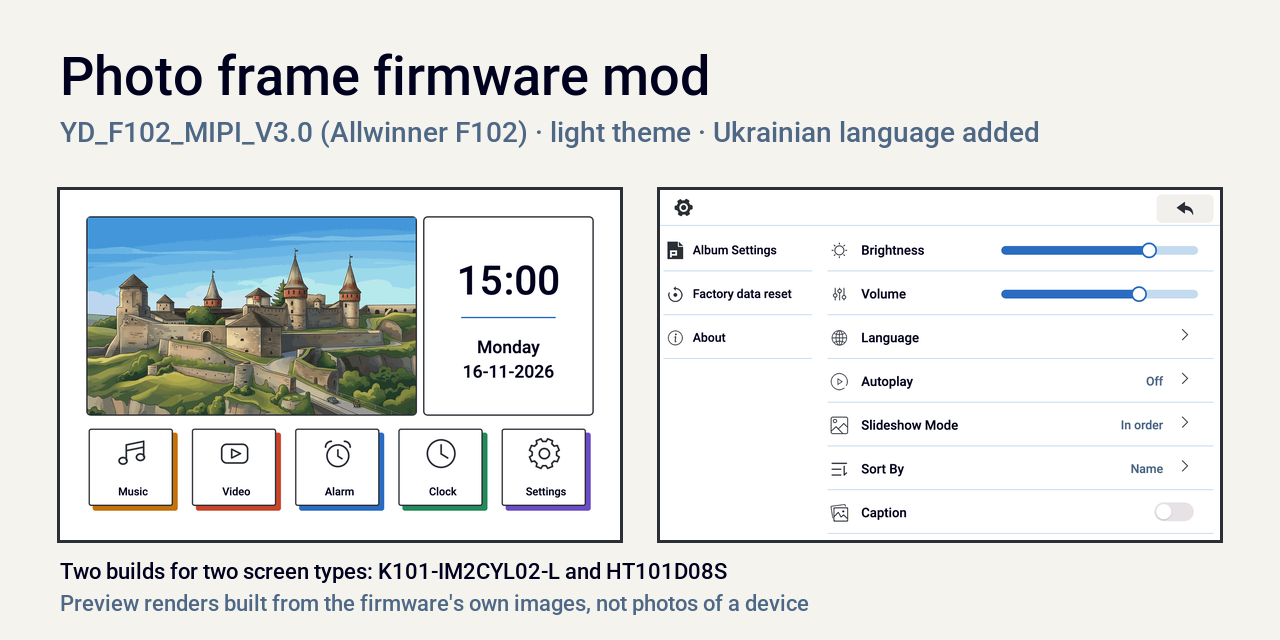
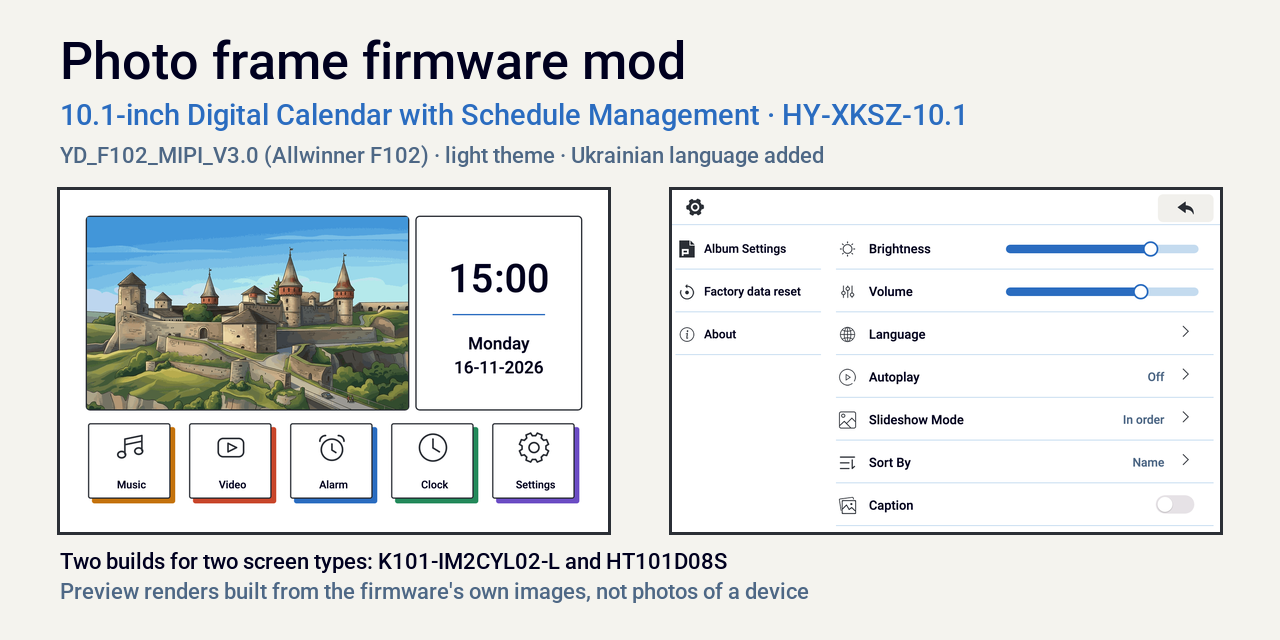
Add the device label (10.1-inch Digital Calendar, HY-XKSZ-10.1) for discoverability

diff --git a/README.md b/README.md
@@ -1,4 +1,6 @@
-# Photo frame firmware mod for YD_F102_MIPI_V3.0 (Allwinner F102)
+# Firmware mod for the 10.1-inch Digital Calendar with Schedule Management (HY-XKSZ-10.1)
+
+Photo frame / digital calendar on the **YD_F102_MIPI_V3.0** board (Allwinner F102, Melis RTOS). Case label: **10.1-inch Digital Calendar with Schedule Management, Model: HY-XKSZ-10.1**.
 
 Custom firmware images for photo frames built on the **YD_F102_MIPI_V3.0** board (Allwinner F102, Melis RTOS), plus the original seller firmware, everything needed to flash it (PhoenixSuit, the USB driver, a step-by-step guide) and the tools used to build the images.
 
@@ -11,6 +13,17 @@ The mod gives the frame a light interface, adds the **Ukrainian** language and f
 | ![Main menu, Ukrainian](docs/images/home-uk.png) | ![Settings](docs/images/settings-en.png) |
 
 > The pictures are **preview renders** assembled from the firmware's own image files and the screen layout read from its code. They are not photos of a device. More screens and details: [docs/FEATURES.md](docs/FEATURES.md).
+
+## Which devices is this for?
+
+The original label on the back of the case reads:
+
+> 10.1-inch Digital Calendar with Schedule Management
+> Model: HY-XKSZ-10.1
+
+Inside such a device the author found the **YD_F102_MIPI_V3.0** board (Allwinner F102 processor, SPI NOR flash XM25QH64C, GSL1680 touch controller) with a 10.1-inch 800×1280 MIPI panel. If your device carries this label, or you opened it and see the same board, this repository is for you. Whether the case label differs between the panel variants below is not known, so do **not** use it to choose the image; use the panel marking or the test in [Identify your frame](docs/IDENTIFY_YOUR_FRAME.md).
+
+Search terms: HY-XKSZ-10.1, 10.1 inch digital calendar, schedule management photo frame, YD_F102_MIPI_V3.0, Allwinner F102, Melis, PhoenixSuit, smartframe.img.
 
 ## Which file do I need?
 

diff --git a/docs/IDENTIFY_YOUR_FRAME.md b/docs/IDENTIFY_YOUR_FRAME.md
@@ -1,6 +1,6 @@
 # Identify your frame (hardware variants)
 
-Frames built on the **YD_F102_MIPI_V3.0** board look identical from the outside and run the same software, but they are sold with **different LCD panels**. The seller's firmware picks the panel setup automatically by reading an ID from the panel, and for one known panel that setup is wrong. So the correct image depends on the panel, not on the frame's outside.
+Devices sold as the **10.1-inch Digital Calendar with Schedule Management, Model HY-XKSZ-10.1** (the label on the back of the case) are built on the **YD_F102_MIPI_V3.0** board. They look identical from the outside and run the same software, but they are sold with **different LCD panels**. The seller's firmware picks the panel setup automatically by reading an ID from the panel, and for one known panel that setup is wrong. So the correct image depends on the panel, not on the frame's outside.
 
 ## Known variants
 
@@ -11,7 +11,7 @@ Frames built on the **YD_F102_MIPI_V3.0** board look identical from the outside 
 | Seller's original firmware | works | static colour stripes, no usable picture |
 | Image to use | [`custom/variant-a_k101-im2cyl02-l`](../firmware/custom/variant-a_k101-im2cyl02-l) (or the stock image) | [`custom/variant-b_ht101d08s`](../firmware/custom/variant-b_ht101d08s) |
 
-Both variants are 10.1-inch 800×1280 MIPI panels mounted in landscape; the interface is drawn at 1280×800. Other panels may exist on the same board. If yours is neither of the two, see [Other panels](#other-panels).
+The case label alone cannot be used to choose the image (it is not known whether it differs between the variants). Both variants are 10.1-inch 800×1280 MIPI panels mounted in landscape; the interface is drawn at 1280×800. Other panels may exist on the same board. If yours is neither of the two, see [Other panels](#other-panels).
 
 ## How to tell which one you have
 

diff --git a/docs/UPDATING.md b/docs/UPDATING.md
@@ -1,6 +1,6 @@
 # Updating the firmware (flashing guide)
 
-This guide installs a `smartframe.img` image on the frame with **PhoenixSuit**, the Allwinner flashing tool the seller supplies. It works for the custom mod images and for restoring the seller's original image. The procedure follows the seller's own instructions and has been used by the author many times on both known hardware variants.
+This guide installs a `smartframe.img` image on the frame (10.1-inch Digital Calendar with Schedule Management, model HY-XKSZ-10.1, board YD_F102_MIPI_V3.0) with **PhoenixSuit**, the Allwinner flashing tool the seller supplies. It works for the custom mod images and for restoring the seller's original image. The procedure follows the seller's own instructions and has been used by the author many times on both known hardware variants.
 
 ## 0. Read this first
 

diff --git a/firmware/README.md b/firmware/README.md
@@ -1,6 +1,6 @@
 # Firmware images
 
-Every folder holds one file named `smartframe.img` (an Allwinner IMAGEWTY image, about 6 MB). Flash it with PhoenixSuit: [docs/UPDATING.md](../docs/UPDATING.md). Checksums: [`SHA256SUMS`](SHA256SUMS).
+These images are for the 10.1-inch Digital Calendar with Schedule Management, model HY-XKSZ-10.1 (case label), board YD_F102_MIPI_V3.0. Every folder holds one file named `smartframe.img` (an Allwinner IMAGEWTY image, about 6 MB). Flash it with PhoenixSuit: [docs/UPDATING.md](../docs/UPDATING.md). Checksums: [`SHA256SUMS`](SHA256SUMS).
 
 | Folder | What it is | Works on | SHA-256 |
 |---|---|---|---|
